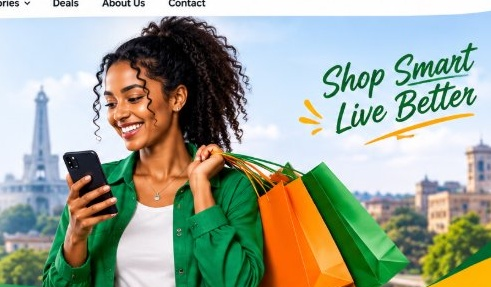
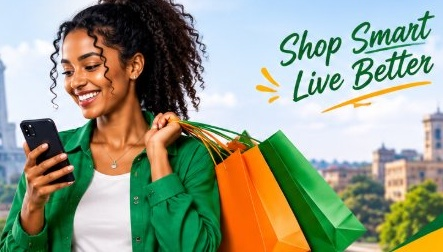
feat(ui): fine-tune hero shopper framing and navbar delivery dropdown

diff --git a/src/components/Navbar.tsx b/src/components/Navbar.tsx
@@ -116,7 +116,7 @@ export default function Navbar() {
                 <select
                   value={selectedKebele}
                   onChange={(e) => setSelectedKebele(e.target.value)}
-                  className="bg-transparent font-bold text-white focus:outline-none cursor-pointer border-b border-emerald-400/40 pb-0.5"
+                  className="bg-transparent font-bold text-white focus:outline-none cursor-pointer border-b border-emerald-400/40 pb-0.5 max-w-[140px] sm:max-w-[200px] truncate"
                   aria-label="Select delivery city"
                 >
                   <option value="All Ethiopia" className="text-slate-900">All Ethiopia (መላው ኢትዮጵያ)</option>
